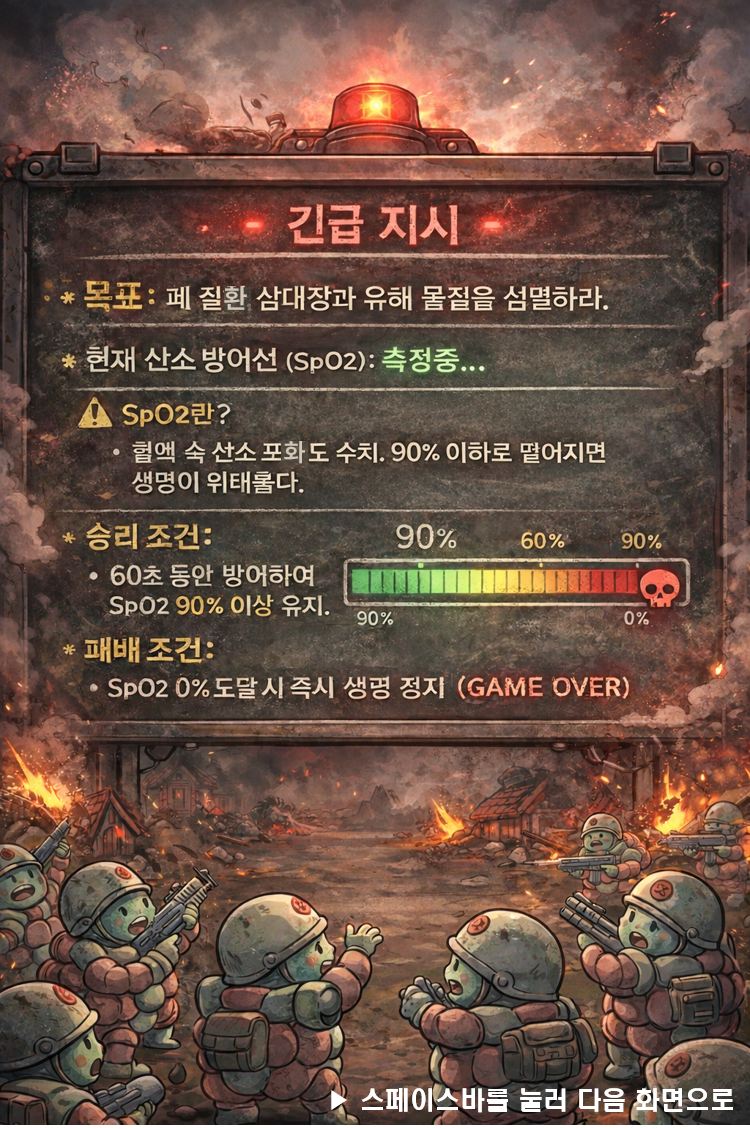
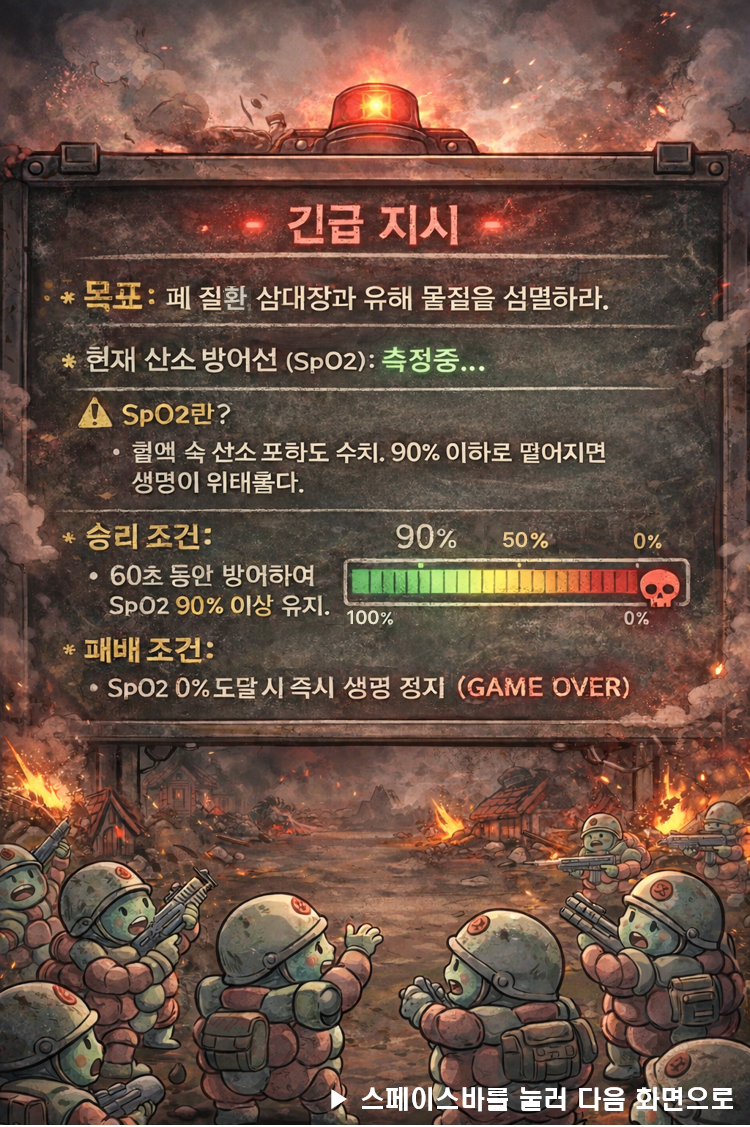
인트로_stroy7이미지 수정

diff --git a/game.py b/game.py
@@ -118,8 +118,8 @@ POPUP_ALPHA_DEC_PER_MS = 0.28
 # =====================================================
 # PATH
 # =====================================================
-IMG_PATH = "C:\\Python\\MedicalDA05_pygame-ver2-\\image\\"
-SOUND_PATH = "C:\\Python\\MedicalDA05_pygame\\sound\\"
+IMG_PATH = "D:\\MHH\python\\MedicalDA05_pygame-ver2-\\image\\"
+SOUND_PATH = "D:\\MHH\\python\\MedicalDA05_pygame-ver2-\\sound\\"
 
 # =====================================================
 # INIT / DISPLAY
